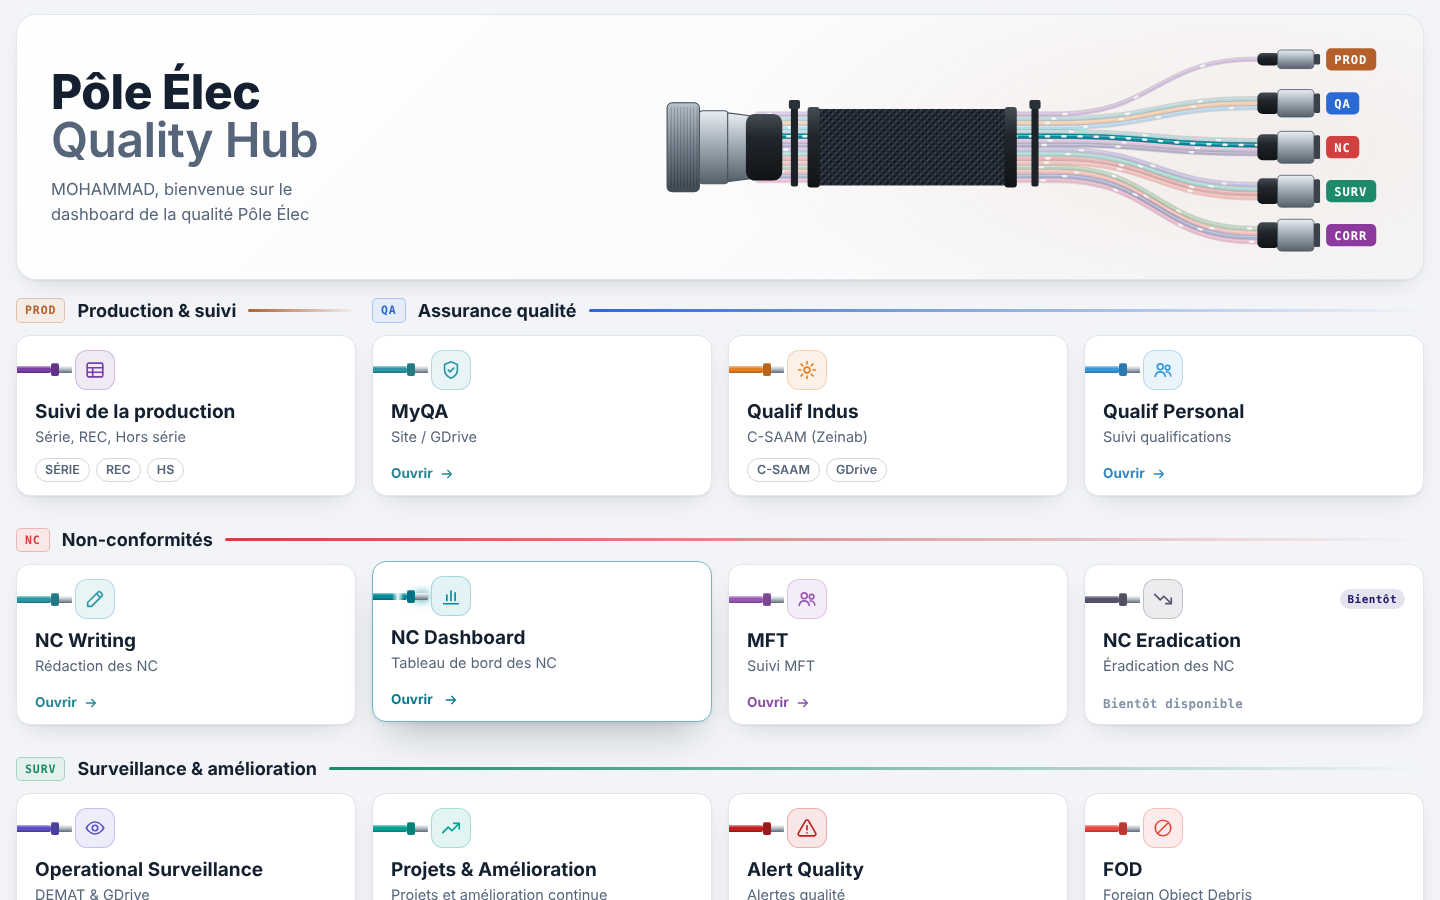
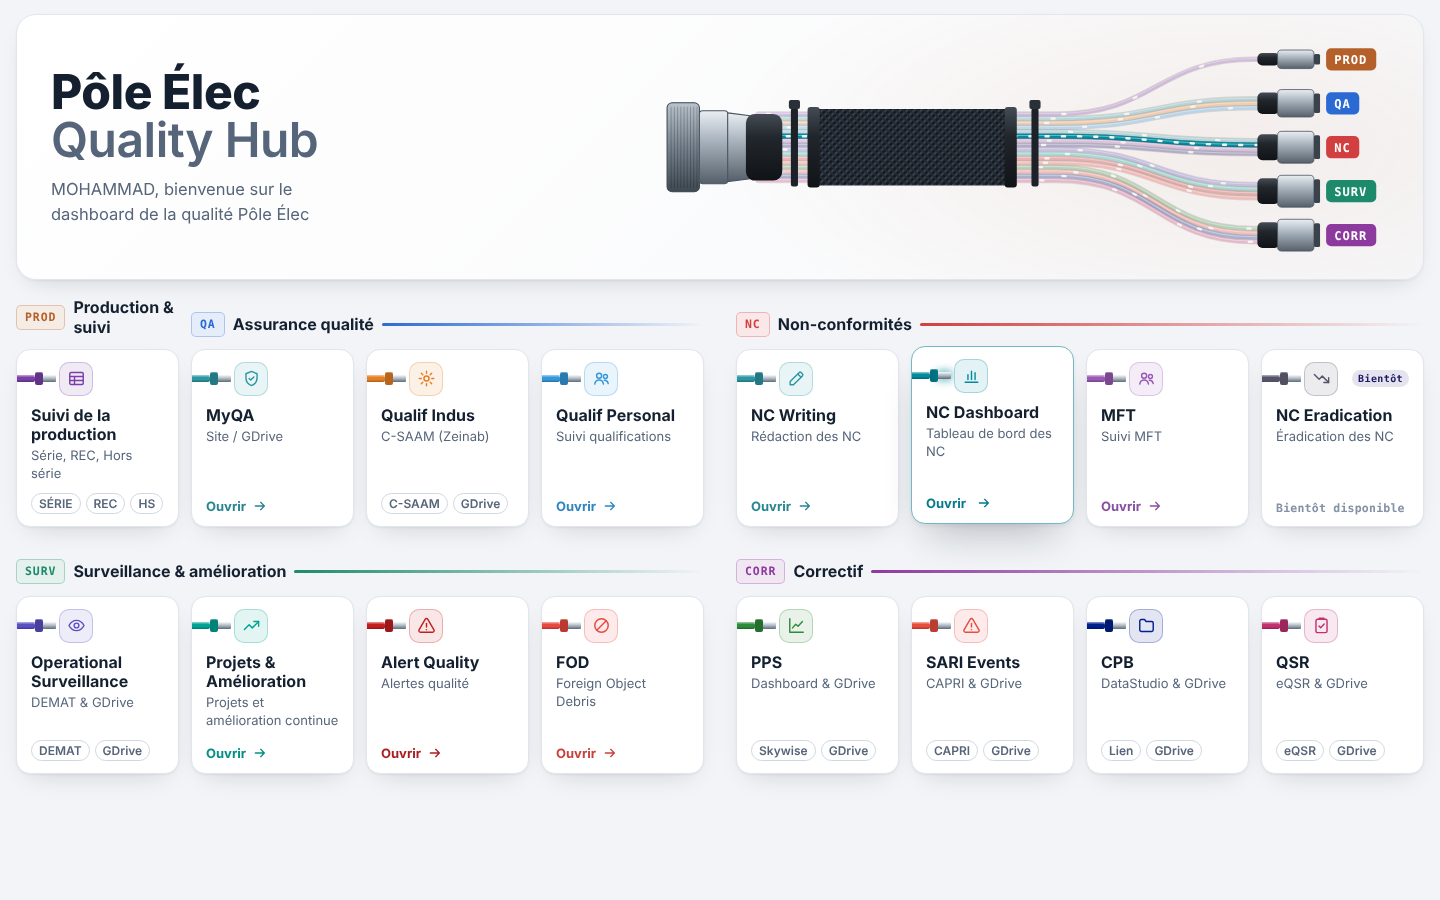
Hub: two rows of eight compact cards
On a wide screen the cards are smaller and eight per row, so the sixteen
tools fit in two rows (Production + Assurance qualité + Non-conformités,
then Surveillance + Correctif) and the page fits one 1440 x 900 screen
again. Where every row splits between two groups (after the fourth
card) the gap is wider, so the page reads as two halves. Placement is
redone on resize; four per row below 1240 px.

Claude-Session: https://claude.ai/code/session_017pLD4XkEhj6BKkNzrEKz3H

diff --git a/09_pole_elec_hub/hub/pole_elec_hub.html b/09_pole_elec_hub/hub/pole_elec_hub.html
@@ -40,9 +40,9 @@ h1 span{display:block;color:var(--muted);font-weight:600}
 @keyframes run{to{stroke-dashoffset:-73}}
 @keyframes run2{to{stroke-dashoffset:-16}}
 
-/* all groups on one grid of four card columns; groups share a row while they fit, card rows have
-   equal heights (rows and places are set by the script). Every card has the same size and the
-   cards line up across the page. */
+/* all groups on one grid of card columns (eight on a wide screen, four below 1240 px); groups share
+   a row while they fit, card rows have equal heights (rows and places are set by the script). Every
+   card has the same size and the cards line up across the page. */
 .groups{display:grid;grid-template-columns:repeat(4,minmax(0,1fr));gap:16px}
 .grp,.cards{display:contents}
 .g-hd{display:flex;align-items:center;gap:12px;margin:0 0 -4px;grid-row:var(--hr);grid-column:var(--hc);min-width:0}
@@ -84,6 +84,23 @@ h1 span{display:block;color:var(--muted);font-weight:600}
 .open svg{width:16px;height:16px;fill:none;stroke:currentColor;stroke-width:2;stroke-linecap:round;stroke-linejoin:round;transition:transform .18s}
 .card.link:hover .open svg,.card.link:focus-within .open svg{transform:translateX(4px)}
 .nolink .open,.soon .open{color:var(--faint);font:600 12.5px/1 Consolas,"Cascadia Mono",monospace;letter-spacing:.02em}
+/* eight per line: compact cards */
+.groups.dense{column-gap:12px}
+.dense .g-hd{align-self:end;gap:8px}
+.dense .g-hd h2{font-size:16px}
+.grp.one .rule{display:none}
+.dense .card{padding:12px 14px}
+.dense .c-top{margin-left:-14px}
+.dense .wire{width:18px}
+.dense .ib{width:34px;height:34px;border-radius:10px}
+.dense .ib svg{width:19px;height:19px}
+.dense .soon-b{font-size:10px;padding:4px 6px 3px}
+.dense .card h3{margin-top:7px;font-size:16px}
+.dense .card p{font-size:13px;line-height:1.35}
+.dense .links{gap:5px}
+.dense .guide{font-size:12px;padding:4px 7px 3px}
+.dense .open{font-size:13px}
+.dense .nolink .open,.dense .soon .open{font-size:11.5px}
 .err{padding:18px 20px;border-radius:12px;border:1px solid #d23f3f;color:#d23f3f;background:var(--surface)}
 
 @media (prefers-reduced-motion:reduce){.hw .p{display:none}.card,.card .open svg{transition:none}.card.link:hover,.card.link:focus-within{transform:none}}
@@ -146,10 +163,11 @@ h1 span{display:block;color:var(--muted);font-weight:600}
 //  For each group: name, code (the tag on the header and in the drawing),
 //  color.
 //
-//  The page has four cards per row, all the same size. Groups follow in the
-//  order below and share a row while they fit in it (here Production & suivi,
-//  1 tool, and Assurance qualité, 3 tools); otherwise a group starts a new
-//  row. A group of more than four tools continues on the next row.
+//  The page has eight cards per row on a wide screen (four below 1240 px),
+//  all the same size. Groups follow in the order below and share a row while
+//  they fit in it (here Production & suivi, Assurance qualité and
+//  Non-conformités: 1 + 3 + 4 tools; then Surveillance & amélioration and
+//  Correctif: 4 + 4); otherwise a group starts a new row.
 // =============================================================================
 
 const HUB_CONFIG = {
@@ -283,29 +301,9 @@ if(!C||!Array.isArray(C.groups)){
   $("#title").innerHTML=esc(C.title)+'<span>'+esc(C.subtitle)+'</span>';
   $("#welcome").textContent=C.welcome||"";
 
-  // places on the card grid: groups follow each other on a line of four cards while they fit,
-  // otherwise a new line starts. Each line is a header row then its card rows (all 1fr, so every
-  // card row has the height of the tallest); a 0 px row between two lines adds space.
-  const COLS=4, lines=[], place=C.groups.map(g=>{
-    const n=(g.tools||[]).length, w=Math.max(1,Math.min(n,COLS)), k=Math.max(1,Math.ceil(n/COLS));
-    let L=lines[lines.length-1];
-    if(!L||L.used+w>COLS){L={used:0,k:1}; lines.push(L);}
-    const at={L, c0:L.used+1, w};
-    L.used+=w; L.k=Math.max(L.k,k);
-    return at;
-  });
-  const tracks=[];
-  lines.forEach((L,i)=>{
-    if(i) tracks.push("0px");
-    L.hr=tracks.length+1;
-    tracks.push("auto", ...Array(L.k).fill("1fr"));
-  });
-  $("#groups").style.gridTemplateRows=tracks.join(" ");
-
   let n=0;
   const html=C.groups.map((g,gi)=>{
-    const P=place[gi], hr=P.L.hr;
-    return '<section class="grp" style="--c:'+esc(g.color||"var(--copper)")+';--hr:'+hr+';--hc:'+P.c0+' / span '+P.w+'">'
+    return '<section class="grp" style="--c:'+esc(g.color||"var(--copper)")+'">'
       +'<header class="g-hd"><span class="code">'+esc(g.code||g.name)+'</span><h2>'+esc(g.name)+'</h2><span class="rule"></span></header>'
       +'<div class="cards">'+(g.tools||[]).map((t,i)=>{
         const id="t"+(n++), w=esc(t.color||g.color||"#8592a5");
@@ -323,10 +321,52 @@ if(!C||!Array.isArray(C.groups)){
         const inner='<span class="c-top"><i class="wire"></i><i class="collar"></i><i class="ferr"></i><span class="ib">'+svgI(t.icon)+'</span>'
           +(state==="soon"?'<span class="soon-b">Bientôt</span>':'')+'</span>'
           +'<h3>'+name+'</h3>'+(t.description?'<p>'+esc(t.description)+'</p>':'')+'<span class="foot">'+foot+'</span>';
-        return '<div class="card'+cls+'" data-id="'+id+'" style="--w:'+w+';--r:'+(hr+1+Math.floor(i/P.w))+';--cc:'+(P.c0+i%P.w)+'">'+inner+'</div>';
+        return '<div class="card'+cls+'" data-id="'+id+'" style="--w:'+w+'">'+inner+'</div>';
       }).join("")+'</div></section>';
   });
   $("#groups").innerHTML=html.join("");
+
+  // places on the card grid: eight compact cards per line on a wide screen, four below 1240 px.
+  // Groups follow each other on a line while they fit, otherwise a new line starts. Each line is
+  // a header row then its card rows (all 1fr, so every card row has the height of the tallest);
+  // a 0 px row between two lines adds space.
+  function layout(){
+    const el=$("#groups"), COLS=innerWidth>=1240?8:4, lines=[];
+    const place=C.groups.map(g=>{
+      const n=(g.tools||[]).length, w=Math.max(1,Math.min(n,COLS)), k=Math.max(1,Math.ceil(n/COLS));
+      let L=lines[lines.length-1];
+      if(!L||L.used+w>COLS){L={used:0,k:1}; lines.push(L);}
+      const at={L, c0:L.used+1, w};
+      L.used+=w; L.k=Math.max(L.k,k);
+      return at;
+    });
+    // where every line has a split between two groups (here after the 4th card), a wider gap
+    const cuts=lines.length>1?[...Array(COLS-1).keys()].map(c=>c+1).filter(c=>lines.every(L=>place.some(P=>P.L===L&&P.c0-1===c))):[];
+    const col=c=>c+cuts.filter(x=>x<c).length;
+    const cols=[];
+    for(let c=1;c<=COLS;c++){cols.push("minmax(0,1fr)"); if(cuts.includes(c)) cols.push("8px");}
+    const tracks=[];
+    lines.forEach((L,i)=>{
+      if(i) tracks.push("0px");
+      L.hr=tracks.length+1;
+      tracks.push("auto", ...Array(L.k).fill("1fr"));
+    });
+    el.classList.toggle("dense",COLS===8);
+    el.style.gridTemplateColumns=cols.join(" ");
+    el.style.gridTemplateRows=tracks.join(" ");
+    el.querySelectorAll(".grp").forEach((sec,gi)=>{
+      const P=place[gi];
+      sec.style.setProperty("--hr",P.L.hr);
+      sec.classList.toggle("one",P.w===1);
+      sec.style.setProperty("--hc",col(P.c0)+" / "+(col(P.c0+P.w-1)+1));
+      sec.querySelectorAll(".card").forEach((c,i)=>{
+        c.style.setProperty("--r",P.L.hr+1+Math.floor(i/P.w));
+        c.style.setProperty("--cc",col(P.c0+i%P.w));
+      });
+    });
+  }
+  layout();
+  addEventListener("resize",layout);
 
   // hero harness: connector, sleeve and tie-wraps on the trunk, one branch per group, one wire per tool
   (function(){

diff --git a/09_pole_elec_hub/slate/hub.js b/09_pole_elec_hub/slate/hub.js
@@ -23,10 +23,11 @@
 //  For each group: name, code (the tag on the header and in the drawing),
 //  color.
 //
-//  The page has four cards per row, all the same size. Groups follow in the
-//  order below and share a row while they fit in it (here Production & suivi,
-//  1 tool, and Assurance qualité, 3 tools); otherwise a group starts a new
-//  row. A group of more than four tools continues on the next row.
+//  The page has eight cards per row on a wide screen (four below 1240 px),
+//  all the same size. Groups follow in the order below and share a row while
+//  they fit in it (here Production & suivi, Assurance qualité and
+//  Non-conformités: 1 + 3 + 4 tools; then Surveillance & amélioration and
+//  Correctif: 4 + 4); otherwise a group starts a new row.
 // =============================================================================
 
 const HUB_CONFIG = {
@@ -160,29 +161,9 @@ if(!C||!Array.isArray(C.groups)){
   $("#title").innerHTML=esc(C.title)+'<span>'+esc(C.subtitle)+'</span>';
   $("#welcome").textContent=C.welcome||"";
 
-  // places on the card grid: groups follow each other on a line of four cards while they fit,
-  // otherwise a new line starts. Each line is a header row then its card rows (all 1fr, so every
-  // card row has the height of the tallest); a 0 px row between two lines adds space.
-  const COLS=4, lines=[], place=C.groups.map(g=>{
-    const n=(g.tools||[]).length, w=Math.max(1,Math.min(n,COLS)), k=Math.max(1,Math.ceil(n/COLS));
-    let L=lines[lines.length-1];
-    if(!L||L.used+w>COLS){L={used:0,k:1}; lines.push(L);}
-    const at={L, c0:L.used+1, w};
-    L.used+=w; L.k=Math.max(L.k,k);
-    return at;
-  });
-  const tracks=[];
-  lines.forEach((L,i)=>{
-    if(i) tracks.push("0px");
-    L.hr=tracks.length+1;
-    tracks.push("auto", ...Array(L.k).fill("1fr"));
-  });
-  $("#groups").style.gridTemplateRows=tracks.join(" ");
-
   let n=0;
   const html=C.groups.map((g,gi)=>{
-    const P=place[gi], hr=P.L.hr;
-    return '<section class="grp" style="--c:'+esc(g.color||"var(--copper)")+';--hr:'+hr+';--hc:'+P.c0+' / span '+P.w+'">'
+    return '<section class="grp" style="--c:'+esc(g.color||"var(--copper)")+'">'
       +'<header class="g-hd"><span class="code">'+esc(g.code||g.name)+'</span><h2>'+esc(g.name)+'</h2><span class="rule"></span></header>'
       +'<div class="cards">'+(g.tools||[]).map((t,i)=>{
         const id="t"+(n++), w=esc(t.color||g.color||"#8592a5");
@@ -200,10 +181,52 @@ if(!C||!Array.isArray(C.groups)){
         const inner='<span class="c-top"><i class="wire"></i><i class="collar"></i><i class="ferr"></i><span class="ib">'+svgI(t.icon)+'</span>'
           +(state==="soon"?'<span class="soon-b">Bientôt</span>':'')+'</span>'
           +'<h3>'+name+'</h3>'+(t.description?'<p>'+esc(t.description)+'</p>':'')+'<span class="foot">'+foot+'</span>';
-        return '<div class="card'+cls+'" data-id="'+id+'" style="--w:'+w+';--r:'+(hr+1+Math.floor(i/P.w))+';--cc:'+(P.c0+i%P.w)+'">'+inner+'</div>';
+        return '<div class="card'+cls+'" data-id="'+id+'" style="--w:'+w+'">'+inner+'</div>';
       }).join("")+'</div></section>';
   });
   $("#groups").innerHTML=html.join("");
+
+  // places on the card grid: eight compact cards per line on a wide screen, four below 1240 px.
+  // Groups follow each other on a line while they fit, otherwise a new line starts. Each line is
+  // a header row then its card rows (all 1fr, so every card row has the height of the tallest);
+  // a 0 px row between two lines adds space.
+  function layout(){
+    const el=$("#groups"), COLS=innerWidth>=1240?8:4, lines=[];
+    const place=C.groups.map(g=>{
+      const n=(g.tools||[]).length, w=Math.max(1,Math.min(n,COLS)), k=Math.max(1,Math.ceil(n/COLS));
+      let L=lines[lines.length-1];
+      if(!L||L.used+w>COLS){L={used:0,k:1}; lines.push(L);}
+      const at={L, c0:L.used+1, w};
+      L.used+=w; L.k=Math.max(L.k,k);
+      return at;
+    });
+    // where every line has a split between two groups (here after the 4th card), a wider gap
+    const cuts=lines.length>1?[...Array(COLS-1).keys()].map(c=>c+1).filter(c=>lines.every(L=>place.some(P=>P.L===L&&P.c0-1===c))):[];
+    const col=c=>c+cuts.filter(x=>x<c).length;
+    const cols=[];
+    for(let c=1;c<=COLS;c++){cols.push("minmax(0,1fr)"); if(cuts.includes(c)) cols.push("8px");}
+    const tracks=[];
+    lines.forEach((L,i)=>{
+      if(i) tracks.push("0px");
+      L.hr=tracks.length+1;
+      tracks.push("auto", ...Array(L.k).fill("1fr"));
+    });
+    el.classList.toggle("dense",COLS===8);
+    el.style.gridTemplateColumns=cols.join(" ");
+    el.style.gridTemplateRows=tracks.join(" ");
+    el.querySelectorAll(".grp").forEach((sec,gi)=>{
+      const P=place[gi];
+      sec.style.setProperty("--hr",P.L.hr);
+      sec.classList.toggle("one",P.w===1);
+      sec.style.setProperty("--hc",col(P.c0)+" / "+(col(P.c0+P.w-1)+1));
+      sec.querySelectorAll(".card").forEach((c,i)=>{
+        c.style.setProperty("--r",P.L.hr+1+Math.floor(i/P.w));
+        c.style.setProperty("--cc",col(P.c0+i%P.w));
+      });
+    });
+  }
+  layout();
+  addEventListener("resize",layout);
 
   // hero harness: connector, sleeve and tie-wraps on the trunk, one branch per group, one wire per tool
   (function(){

diff --git a/09_pole_elec_hub/slate/hub.css b/09_pole_elec_hub/slate/hub.css
@@ -33,9 +33,9 @@ h1 span{display:block;color:var(--muted);font-weight:600}
 @keyframes run{to{stroke-dashoffset:-73}}
 @keyframes run2{to{stroke-dashoffset:-16}}
 
-/* all groups on one grid of four card columns; groups share a row while they fit, card rows have
-   equal heights (rows and places are set by the script). Every card has the same size and the
-   cards line up across the page. */
+/* all groups on one grid of card columns (eight on a wide screen, four below 1240 px); groups share
+   a row while they fit, card rows have equal heights (rows and places are set by the script). Every
+   card has the same size and the cards line up across the page. */
 .groups{display:grid;grid-template-columns:repeat(4,minmax(0,1fr));gap:16px}
 .grp,.cards{display:contents}
 .g-hd{display:flex;align-items:center;gap:12px;margin:0 0 -4px;grid-row:var(--hr);grid-column:var(--hc);min-width:0}
@@ -77,6 +77,23 @@ h1 span{display:block;color:var(--muted);font-weight:600}
 .open svg{width:16px;height:16px;fill:none;stroke:currentColor;stroke-width:2;stroke-linecap:round;stroke-linejoin:round;transition:transform .18s}
 .card.link:hover .open svg,.card.link:focus-within .open svg{transform:translateX(4px)}
 .nolink .open,.soon .open{color:var(--faint);font:600 12.5px/1 Consolas,"Cascadia Mono",monospace;letter-spacing:.02em}
+/* eight per line: compact cards */
+.groups.dense{column-gap:12px}
+.dense .g-hd{align-self:end;gap:8px}
+.dense .g-hd h2{font-size:16px}
+.grp.one .rule{display:none}
+.dense .card{padding:12px 14px}
+.dense .c-top{margin-left:-14px}
+.dense .wire{width:18px}
+.dense .ib{width:34px;height:34px;border-radius:10px}
+.dense .ib svg{width:19px;height:19px}
+.dense .soon-b{font-size:10px;padding:4px 6px 3px}
+.dense .card h3{margin-top:7px;font-size:16px}
+.dense .card p{font-size:13px;line-height:1.35}
+.dense .links{gap:5px}
+.dense .guide{font-size:12px;padding:4px 7px 3px}
+.dense .open{font-size:13px}
+.dense .nolink .open,.dense .soon .open{font-size:11.5px}
 .err{padding:18px 20px;border-radius:12px;border:1px solid #d23f3f;color:#d23f3f;background:var(--surface)}
 
 @media (prefers-reduced-motion:reduce){.hw .p{display:none}.card,.card .open svg{transition:none}.card.link:hover,.card.link:focus-within{transform:none}}

diff --git a/09_pole_elec_hub/README.md b/09_pole_elec_hub/README.md
@@ -2,9 +2,9 @@
 
 New home page for the Pôle Élec quality tools, to replace the current "Pole Elec Quality HUB" Slate app.
 
-## Chosen design: template 5 (20 Oct), on a four-column grid (21 Oct)
+## Chosen design: template 5 (20 Oct), two rows of eight cards (21 Oct)
 
-The page to use is `hub/pole_elec_hub.html` (previews: `screenshots/hub_final.png`, `hub_final_hover.png` with one tool hovered, `hub_final_phone.png`). It keeps the template 5 look, with the harness drawing in the header, and puts the tools on one grid of four cards per row. All cards have the same size and line up across the page (the script sets their rows and places on the grid), so nothing is stacked on one side. A sober corporate restyle without the drawing was tried on 21 Oct and dropped (commit `b02ac35` in the history). The page is light only, so it matches the Slate app whatever the Windows theme. It is one self-contained file, HTML, CSS and JavaScript only: no other file, no external font, no library. Everything on it comes from the `HUB_CONFIG` block at the top of its `<script>`, the only part to edit:
+The page to use is `hub/pole_elec_hub.html` (previews: `screenshots/hub_final.png`, `hub_final_hover.png` with one tool hovered, `hub_final_phone.png`). It keeps the template 5 look, with the harness drawing in the header, and puts the tools on one grid of eight compact cards per row (four below 1240 px wide). All cards have the same size and line up across the page (the script sets their rows and places on the grid), so nothing is stacked on one side. A sober corporate restyle without the drawing was tried on 21 Oct and dropped (commit `b02ac35` in the history). The page is light only, so it matches the Slate app whatever the Windows theme. It is one self-contained file, HTML, CSS and JavaScript only: no other file, no external font, no library. Everything on it comes from the `HUB_CONFIG` block at the top of its `<script>`, the only part to edit:
 
 - links, names, short descriptions, icons and colours are all there; `links:` gives a tool several buttons; a link still set to `A_COMPLETER` shows "Lien à compléter" and cannot be clicked;
 - `soon: true` shows a tool as "Bientôt disponible" (not clickable); `guide:` adds a "Guide utilisateur" link;
@@ -22,7 +22,7 @@ Content: Mohammad's own list of 21 Oct (links, groups and the tools with several
 
 A tool with `links` shows one button per link instead of "Ouvrir"; a tool with a single `link` opens from anywhere on its card.
 
-The page has four cards per row, all the same size, and groups share a row while they fit: Production & suivi and Assurance qualité together, then one group per row. At 1440 × 900 the last row needs a short scroll. Below 1000 px wide the groups go one per row with two cards per row, and on a phone the cards stack.
+On a wide screen the page has eight cards per row, all the same size, and groups share a row while they fit: Production & suivi, Assurance qualité and Non-conformités (1 + 3 + 4) on the first row, Surveillance & amélioration and Correctif (4 + 4) on the second. Both rows split after the fourth card, so the page gets a wider gap there and reads as a left half and a right half. Everything is visible at once on a 1440 × 900 screen. Between 1000 and 1240 px wide there are four cards per row; below 1000 px the groups go one per row with two cards per row, and on a phone the cards stack.
 
 ## The five templates (design round of 20 Oct)
 

diff --git a/HANDOVER.md b/HANDOVER.md
@@ -33,7 +33,7 @@ Read sections 1, 2 and 9 first. Everything else is reference. Every number below
 | CNQ reconciliation (predecessor files vs official method M1888 / UG2600252) | Mentioned by Mohammad, **not started here** | — |
 | CNQ model | Version cnq-2026.10.19: 7 rule changes from SAP rework orders and MES aléas, approved 19 Oct | `cnq_handoever/`, `CNQ_CHANGES.md` |
 | Work orders, MES aléas, 2025 NCs (uploaded 19 Oct) | Analysed; investigation checklist for Mohammad, **checks pending** | `05_outputs/CNQ_investigation_checklist.html`, `07_scripts/wo_disruption/` |
-| New Pôle Élec Quality Hub (Slate home page) | Template 5 chosen 20 Oct, with its harness drawing. 21 Oct: Mohammad's own config (five groups, sixteen tools, some with several links shown as buttons) on one grid of four cards per row, all cards the same size and lined up (a corporate restyle without the drawing was tried and dropped). Page `hub/pole_elec_hub.html`, one self-contained HTML/CSS/JS file, links in its `HUB_CONFIG` block; NC Eradication shown as coming soon. Same page split for Slate in `slate/` (`hub.html`, `hub.css`, `hub.js`); not installed in Slate yet | `09_pole_elec_hub/`, export in `06_input_data/slate_hub_export_2026-10-20.json` |
+| New Pôle Élec Quality Hub (Slate home page) | Template 5 chosen 20 Oct, with its harness drawing. 21 Oct: Mohammad's own config (five groups, sixteen tools, some with several links shown as buttons) on two rows of eight compact cards (four per row below 1240 px), all cards the same size and lined up, one screen at 1440 × 900 (a corporate restyle without the drawing was tried and dropped). Page `hub/pole_elec_hub.html`, one self-contained HTML/CSS/JS file, links in its `HUB_CONFIG` block; NC Eradication shown as coming soon. Same page split for Slate in `slate/` (`hub.html`, `hub.css`, `hub.js`); not installed in Slate yet | `09_pole_elec_hub/`, export in `06_input_data/slate_hub_export_2026-10-20.json` |
 
 ---
 
